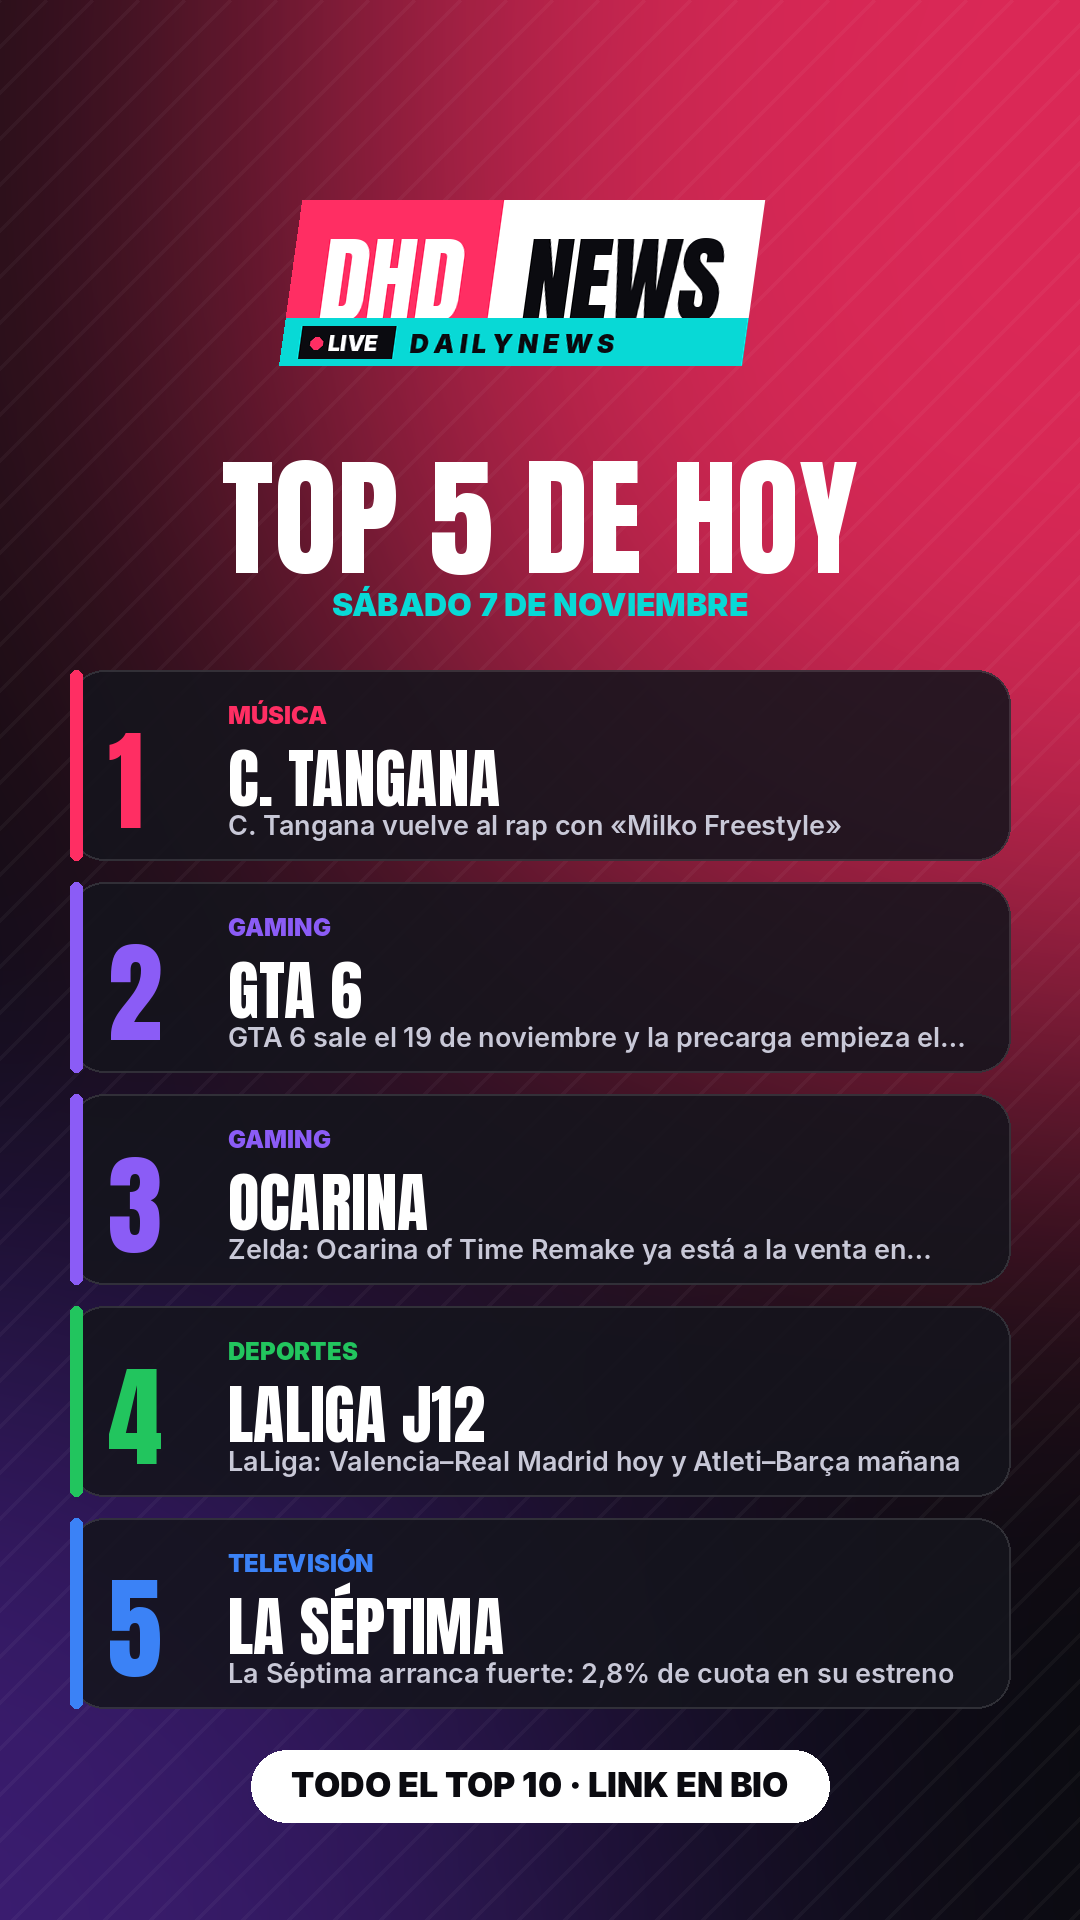
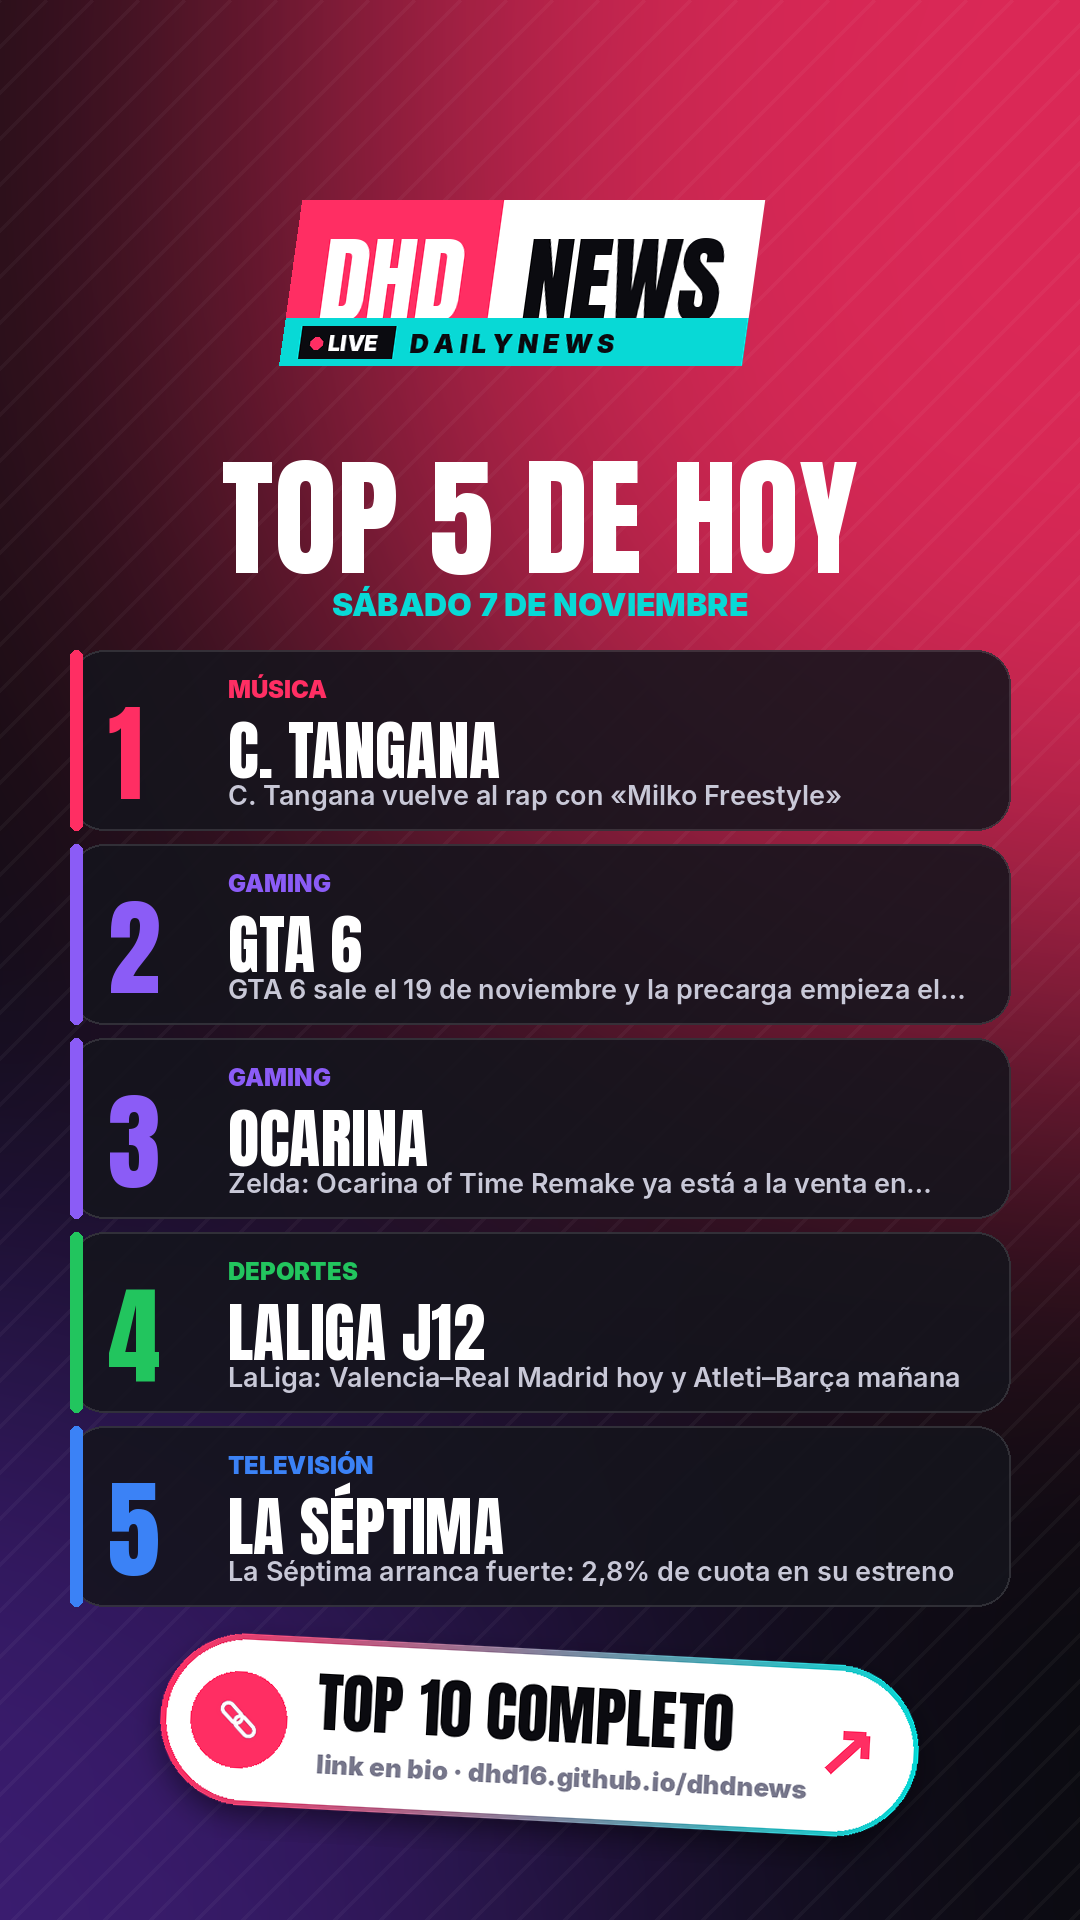
Sticker de link en bio con diseño y ajustes de maquetación
Claude-Session: https://claude.ai/code/session_017RwZdT1hZPRHQVMQwhZyR5

Changed region(s): [[0.0611, 0.3125, 0.9472, 0.9688], [0.0611, 0.4375, 0.0917, 0.4688]]

diff --git a/generador/redes.py b/generador/redes.py
@@ -157,6 +157,45 @@ def bug(img, cx, y, scale=1.0, center=True):
     img.paste(layer, (x, y), layer)
     return y + Hl
 
+
+def link_icon(size, color):
+    L = Image.new("RGBA", (size*2, size*2), (0, 0, 0, 0)); d = ImageDraw.Draw(L)
+    w = max(4, size//7); r = size//2
+    d.rounded_rectangle((size*0.25, size*0.75, size*1.15, size*1.25), radius=r//2, outline=color, width=w)
+    d.rounded_rectangle((size*0.85, size*0.75, size*1.75, size*1.25), radius=r//2, outline=color, width=w)
+    return L.rotate(-45, resample=Image.BICUBIC).resize((size, size), Image.LANCZOS)
+
+def cta_sticker(img, cy, title="LINK EN BIO", sub="dhd16.github.io/dhdnews", angle=-3):
+    ft, fs = font("anton", 64), font("black", 26)
+    d0 = ImageDraw.Draw(Image.new("RGB", (5, 5)))
+    tw = max(d0.textlength(title, font=ft), d0.textlength(sub, font=fs))
+    ic = 96; pad = 30
+    w, h = int(ic + tw + pad*3 + 70), 160
+    lay = Image.new("RGBA", (w+80, h+80), (0, 0, 0, 0))
+    sh = Image.new("RGBA", lay.size, (0, 0, 0, 0))
+    ImageDraw.Draw(sh).rounded_rectangle((40, 52, 40+w, 52+h), radius=h//2, fill=(0, 0, 0, 150))
+    lay = Image.alpha_composite(lay, sh.filter(ImageFilter.GaussianBlur(16)))
+    d = ImageDraw.Draw(lay)
+    # cuerpo blanco con borde degradado
+    grad = Image.new("RGBA", (w+12, h+12)); gd = ImageDraw.Draw(grad)
+    for x in range(w+12):
+        t = x/(w+12); gd.line([(x, 0), (x, h+12)], fill=tuple(int(PINK[k]*(1-t)+CYAN[k]*t) for k in range(3))+(255,))
+    m = Image.new("L", grad.size, 0); ImageDraw.Draw(m).rounded_rectangle((0, 0, w+11, h+11), radius=(h+12)//2, fill=255)
+    lay.paste(grad, (34, 34), m)
+    d.rounded_rectangle((40, 40, 40+w, 40+h), radius=h//2, fill="white")
+    # icono en círculo rosa
+    cx0 = 40+pad-6; d.ellipse((cx0, 40+(h-ic)//2, cx0+ic, 40+(h+ic)//2), fill=PINK)
+    li = link_icon(60, "white"); lay.paste(li, (cx0+18, 40+(h-60)//2), li)
+    tx = cx0+ic+pad
+    d.text((tx, 40+10), title, font=ft, fill=BG)
+    d.text((tx+2, 40+104), sub, font=fs, fill=(120, 120, 140))
+    # flecha
+    ax = 40+w-pad-34; ay = 40+h//2
+    d.line([(ax-20, ay+20), (ax+14, ay-14)], fill=PINK, width=9)
+    d.line([(ax-6, ay-16), (ax+16, ay-16)], fill=PINK, width=9); d.line([(ax+16, ay-16), (ax+16, ay+6)], fill=PINK, width=9)
+    lay = lay.rotate(angle, resample=Image.BICUBIC, expand=True)
+    img.paste(lay, (int(W/2 - lay.width/2), int(cy - lay.height/2)), lay)
+
 def story_top5(news, fecha):
     img = background(PINK); d = ImageDraw.Draw(img, "RGBA")
     bug(img, W/2, 200, 1.0)
@@ -164,23 +203,20 @@ def story_top5(news, fecha):
     d.text(((W-d.textlength(t, font=ft))/2, 420), t, font=ft, fill="white")
     fd = font("black", 32); ftxt = fecha_txt(fecha).upper()
     d.text(((W-d.textlength(ftxt, font=fd))/2, 585), ftxt, font=fd, fill=CYAN)
-    y = 670
+    y = 650
     for i, n in enumerate(news[:5], start=1):
         lab, col = CATS.get(n["cat"], ("NOTICIA", PINK))
-        d.rounded_rectangle((70, y, W-70, y+190), radius=34, fill=(20, 20, 28, 225), outline=(255, 255, 255, 30), width=2)
-        d.rounded_rectangle((70, y, 82, y+190), radius=6, fill=col)
-        d.text((108, y+28), str(i), font=font("anton", 110), fill=col)
+        d.rounded_rectangle((70, y, W-70, y+180), radius=34, fill=(20, 20, 28, 225), outline=(255, 255, 255, 30), width=2)
+        d.rounded_rectangle((70, y, 82, y+180), radius=6, fill=col)
+        d.text((108, y+24), str(i), font=font("anton", 106), fill=col)
         tx = 108 + 120
-        d.text((tx, y+30), lab, font=font("black", 24), fill=col)
+        d.text((tx, y+24), lab, font=font("black", 24), fill=col)
         kw = (n.get("kw") or n["title"].split(":")[0]).upper()
-        d.text((tx, y+60), kw, font=fit(d, kw, "anton", W-70-tx-30, 64, 40), fill="white")
+        d.text((tx, y+52), kw, font=fit(d, kw, "anton", W-70-tx-30, 64, 40), fill="white")
         sub = wrap(d, n["title"], font("semi", 27), W-70-tx-30)
-        if sub: d.text((tx, y+138), sub[0] + ("…" if len(sub) > 1 else ""), font=font("semi", 27), fill=(200, 200, 215))
-        y += 212
-    f = font("black", 34); cta = "TODO EL TOP 10 · LINK EN BIO"
-    w = d.textlength(cta, font=f)
-    d.rounded_rectangle(((W-w)/2-40, 1750, (W+w)/2+40, 1822), radius=999, fill="white")
-    d.text(((W-w)/2, 1764), cta, font=f, fill=BG)
+        if sub: d.text((tx, y+128), sub[0] + ("…" if len(sub) > 1 else ""), font=font("semi", 27), fill=(200, 200, 215))
+        y += 194
+    cta_sticker(img, 1735, "TOP 10 COMPLETO", "link en bio · dhd16.github.io/dhdnews")
     return img
 
 def story_ultima(n, fecha):
@@ -245,11 +281,11 @@ def story_card(news, idx, fecha):
     glow = Image.new("RGB", (W, H), BG); ImageDraw.Draw(glow).ellipse((W*0.3, -H*0.2, W*1.5, H*0.35), fill=col)
     img = Image.blend(img, glow.filter(ImageFilter.GaussianBlur(240)), 0.55)
     d = ImageDraw.Draw(img, "RGBA")
-    bug(img, W/2, 120, 0.85)
+    bug(img, W/2, 110, 0.8)
     fh = font("anton", 78); t = "ÚLTIMAS NOTICIAS"
-    d.text((60, 345), t, font=fh, fill="white")
-    tw = d.textlength(t, font=fh); d.rectangle((60+tw+24, 392, W-60, 396), fill=(255, 255, 255, 70))
-    X0, X1, Y0, PH, Y1 = 50, W-50, 470, 640, 1800
+    d.text((60, 325), t, font=fh, fill="white")
+    tw = d.textlength(t, font=fh); d.rectangle((60+tw+24, 372, W-60, 376), fill=(255, 255, 255, 70))
+    X0, X1, Y0, PH, Y1 = 50, W-50, 450, 540, 1590
     CW = X1-X0
     d.rounded_rectangle((X0, Y0, X1, Y1), radius=44, fill=(22, 22, 31), outline=(255, 255, 255, 28), width=2)
     # foto
@@ -288,14 +324,17 @@ def story_card(news, idx, fecha):
         d.text((X0+40, y), l, font=ft, fill="white"); y += 74
     y += 18
     fx = font("semi", 38); tl = wrap(d, n.get("text", ""), fx, CW-80)
-    maxl = max(2, min(6, (Y1-150-y)//54))
-    if len(tl) > maxl: tl = tl[:maxl]; tl[-1] = tl[-1].rstrip(",.;") + "…"
+    maxl = max(0, min(6, (Y1-130-y)//54))
+    if len(tl) > maxl:
+        tl = tl[:maxl]
+        if tl: tl[-1] = tl[-1].rstrip(",.;") + "…"
     for l in tl:
         d.text((X0+40, y), l, font=fx, fill=(170, 170, 190)); y += 54
     d.line([(X0+40, Y1-110), (X1-40, Y1-110)], fill=(255, 255, 255, 40), width=2)
     d.text((X0+40, Y1-80), n.get("source", ""), font=font("semi", 32), fill=(160, 160, 180))
-    go = "Leer noticia · link en bio →"; fg = font("black", 32)
+    go = "Leer noticia →"; fg = font("black", 32)
     d.text((X1-40-d.textlength(go, font=fg), Y1-80), go, font=fg, fill=CYAN)
+    cta_sticker(img, 1700, "LEE LA NOTICIA", "link en bio · dhd16.github.io/dhdnews")
     return img
 
 # ---------- REEL ----------
